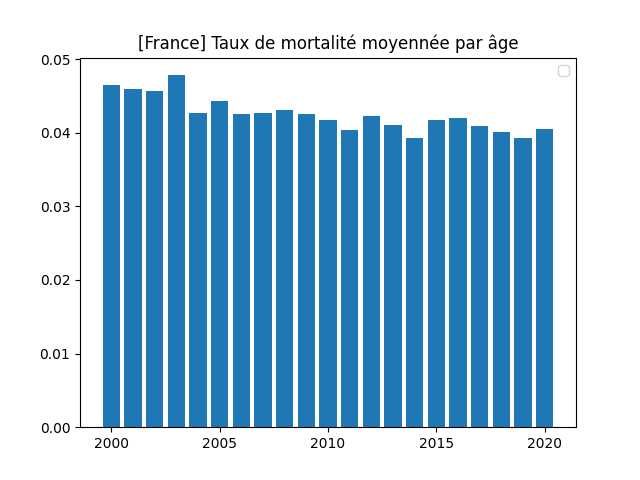
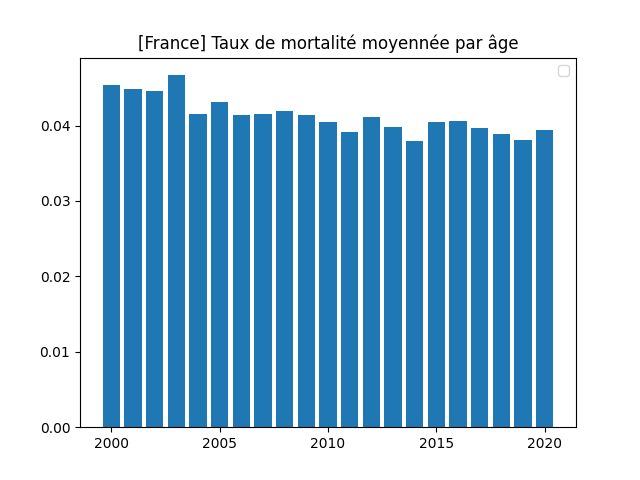
Use only metropolitain deaths

diff --git a/run.py b/run.py
@@ -150,7 +150,7 @@ def _db_connect():
 def _init_db():
     with _db_connect() as conn:
         cur = conn.cursor()
-        cur.execute('''CREATE TABLE IF NOT EXISTS deces(sex text, date_naissance text, date_deces text, age integer)''')
+        cur.execute('''CREATE TABLE IF NOT EXISTS deces(sex text, date_naissance text, date_deces text, lieu_deces text, age integer, is_metro bool)''')
         cur.execute('''DELETE FROM deces''')
         cur.execute('''CREATE TABLE IF NOT EXISTS ages(annee integer, age integer, nb integer)''')
         cur.execute('''DELETE FROM ages''')
@@ -206,6 +206,7 @@ def _import_deces_file(conn, conf):
             try:
                 date_naissance = _parse_date(line[81:89].decode("utf-8"), def_month="06", def_day="15")
                 date_deces = _parse_date(line[154:162].decode("utf-8"))
+                lieu_deces = line[162:167].decode("utf-8")
                 naissance_dt = _to_dt(date_naissance)
                 deces_dt = _to_dt(date_deces)
                 age = max(0, min(100, _dt_to_annees(deces_dt - naissance_dt)))
@@ -213,7 +214,9 @@ def _import_deces_file(conn, conf):
                     "sex": _parse_sex(line[80:81].decode("utf-8")),
                     "date_naissance": date_naissance,
                     "date_deces": date_deces,
-                    "age": age
+                    "lieu_deces": lieu_deces,
+                    "age": age,
+                    "is_metro": _parse_int(lieu_deces, 99999) < 96000
                 }
                 rows.append(parsed)
                 nb_inserted += 1
@@ -310,7 +313,7 @@ def _select_pop_par_age(conn, annee):
 
 def _select_deces_par_age(conn, date_range):
     rows = conn.cursor().execute(
-        '''SELECT age, count(*) FROM deces WHERE date_deces BETWEEN ? AND ? GROUP BY age''',
+        '''SELECT age, count(*) FROM deces WHERE is_metro=true AND date_deces BETWEEN ? AND ? GROUP BY age''',
         [*date_range]
     )
     return {age: nb for age, nb in rows}
@@ -344,7 +347,7 @@ def compute_deces_par_date(drkey, forecast_diff=False):
 
 def _select_deces_par_date(conn, date_range):
     rows = conn.cursor().execute(
-        '''SELECT date_deces, count(*) FROM deces WHERE date_deces BETWEEN ? AND ? GROUP BY date_deces''',
+        '''SELECT date_deces, count(*) FROM deces WHERE is_metro=true AND date_deces BETWEEN ? AND ? GROUP BY date_deces''',
         [*date_range]
     )
     return {_to_dt(date_deces): nb for date_deces, nb in rows}
@@ -474,7 +477,7 @@ def __compute_mortalite_par_annee(conn, annees):
     res = {}
     for annee in annees:
         row = cur.execute(
-            '''select count(*) from deces where date_deces between ? and ?''',
+            '''SELECT count(*) FROM deces WHERE is_metro=true AND date_deces between ? and ?''',
             (str(annee), str(annee+1))
         ).fetchone()
         res[annee] = row[0]
@@ -581,6 +584,12 @@ def _parse_sex(val):
     if val == "1": return "M"
     if val == "2": return "F"
     raise ParseSexError(f"Bad sex value: {val}")
+
+def _parse_int(val, def_val=0):
+    try:
+        return int(val)
+    except:
+        return def_val
 
 class DateParseError(ParseError):
     pass
